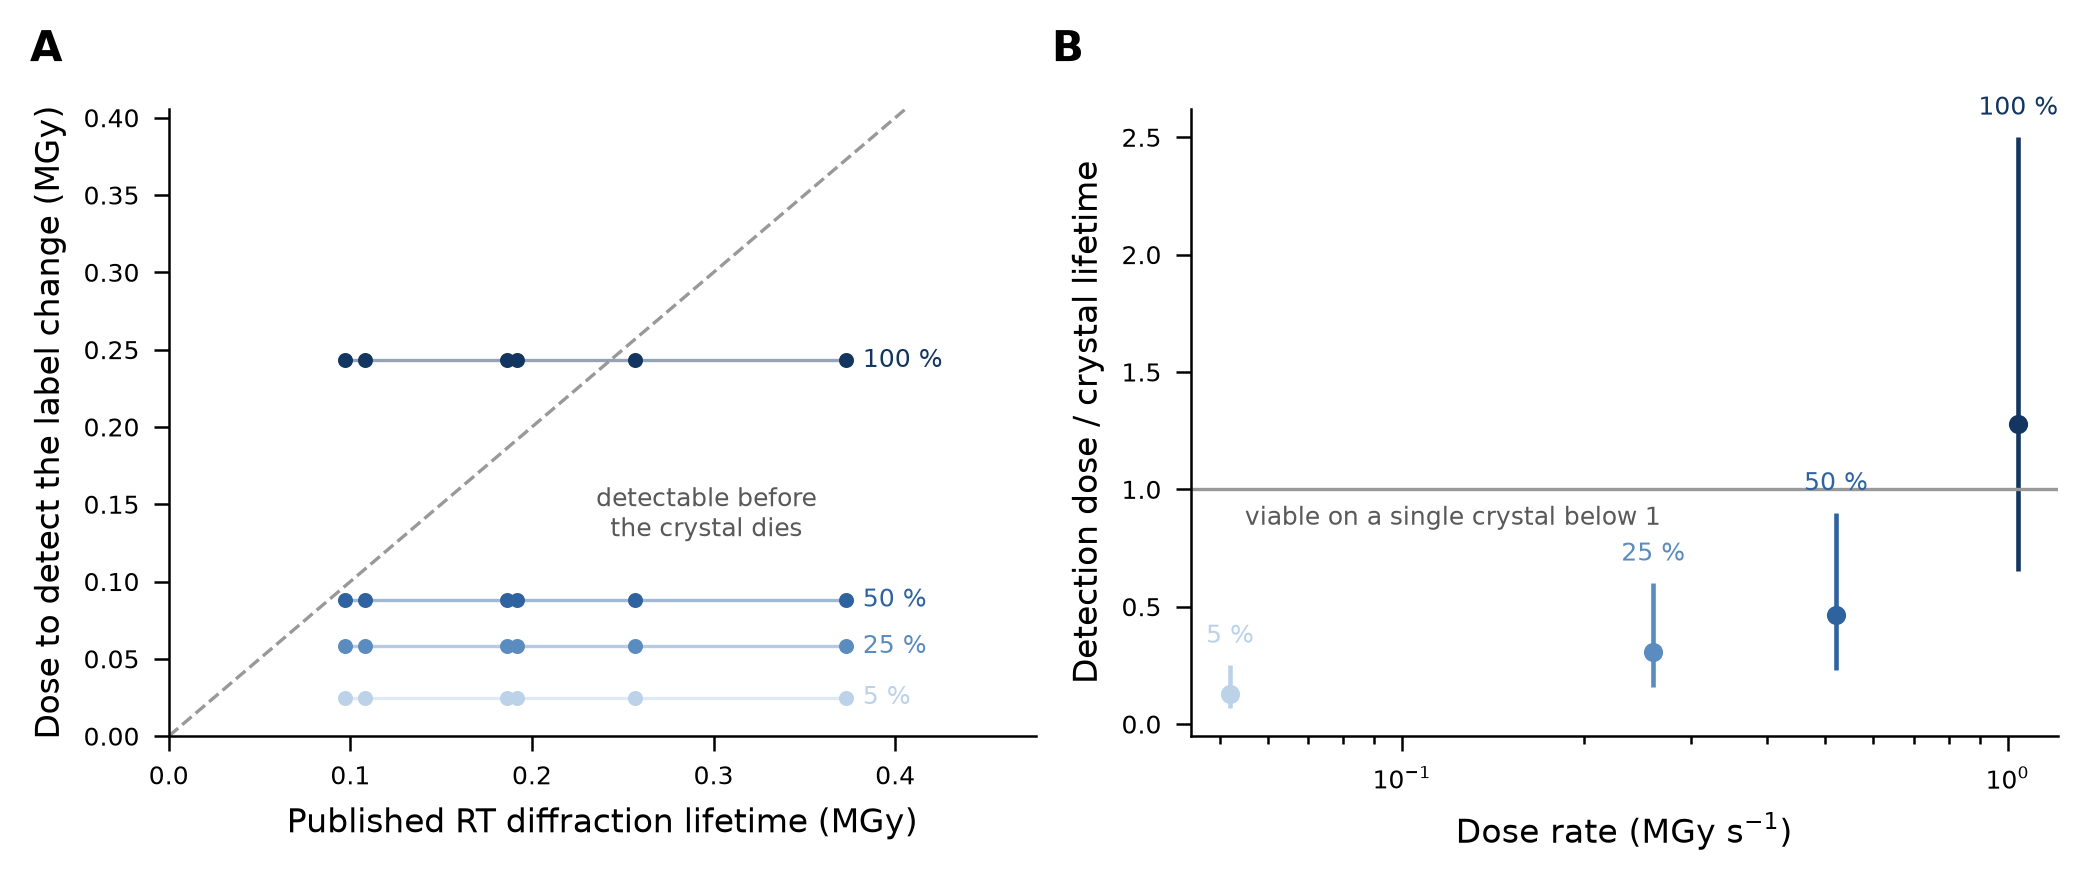
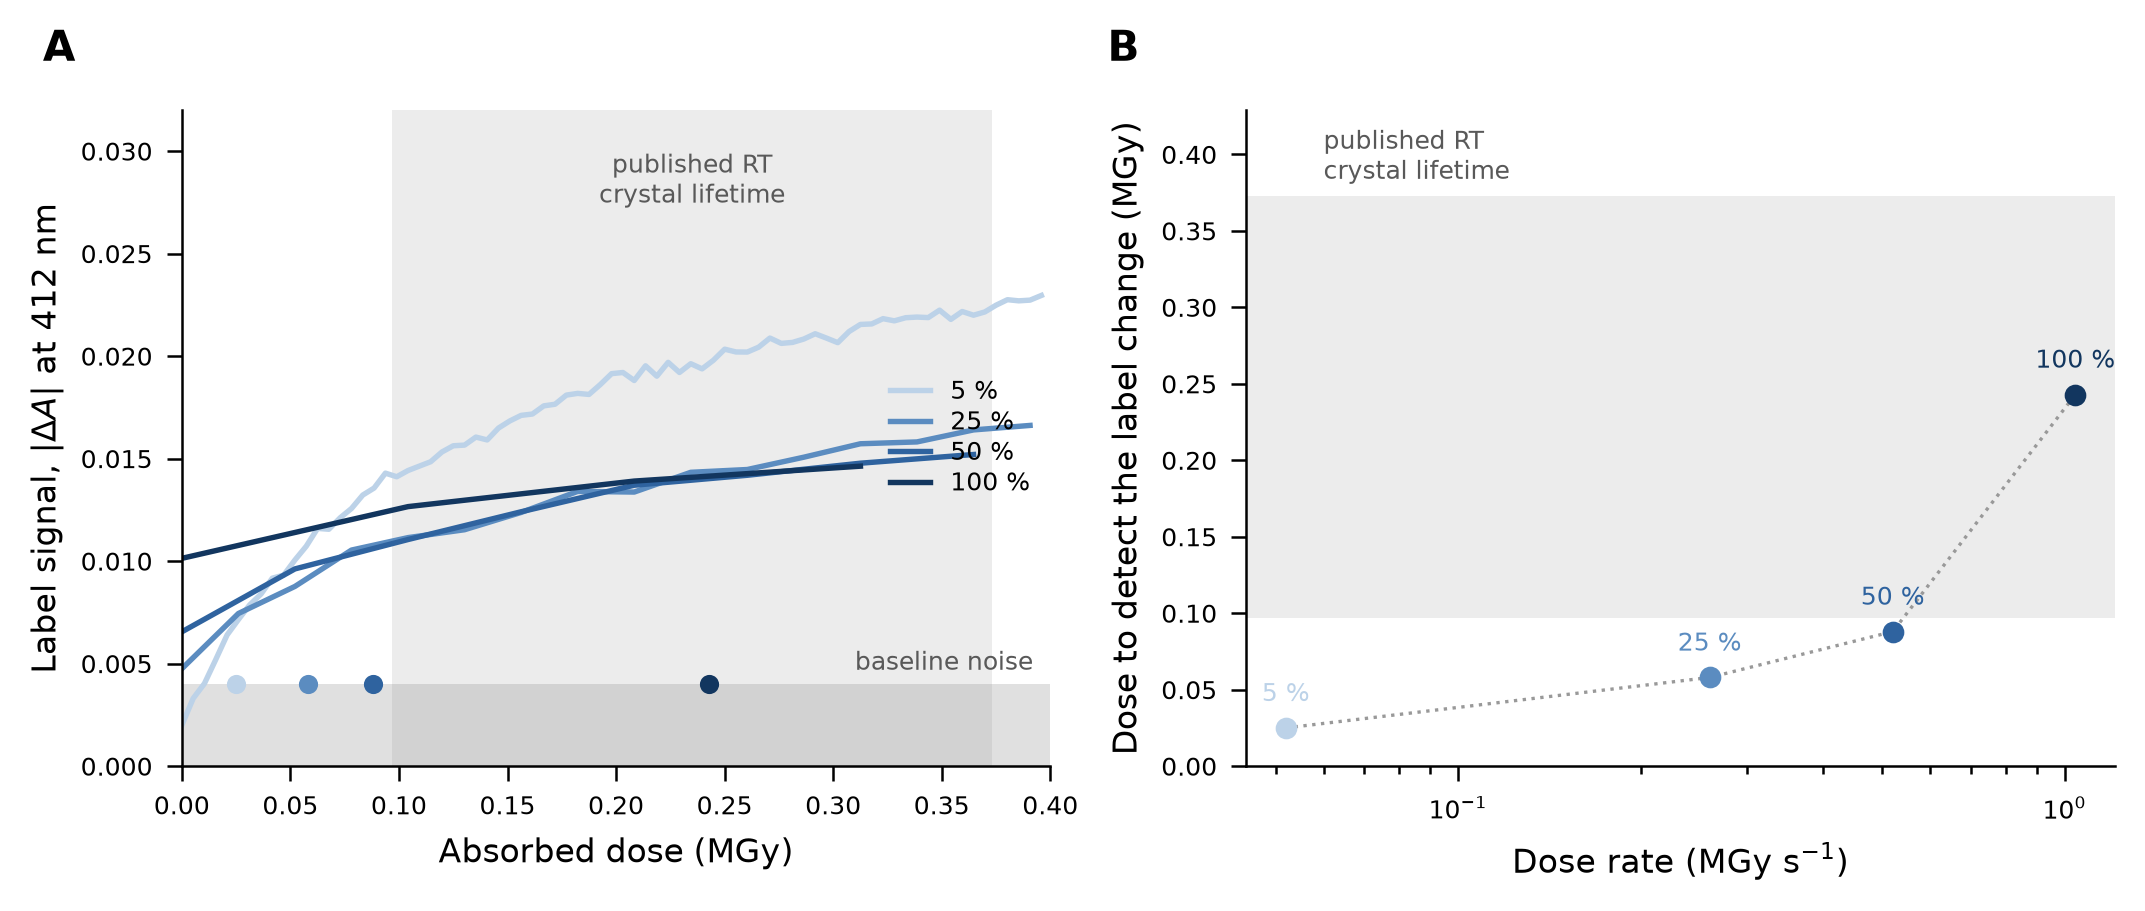
Redesign the verdict figure as dose vs signal with a marked threshold
figure_v2_verdict now plots |label signal| against dose directly, with
the measured noise floor and the published RT diffraction lifetime
range both shaded, and each condition's detection dose marked where
its curve crosses the floor.  Panel b keeps the lifetime band on the
detection-dose-vs-rate axis so the ambiguity at 100% transmission is
visible without a ratio.

Also added a WHY NOT A HALF-LIFE section to the summary: half-life and
the fitted decay constant d1 are the same quantity (t_half = ln(2)*d1),
so both are window-dependent for the same reason -- a 4.4x spread in
d1 for the DTNB_25 difference trace between a 0.6 and 3.0 MGy fit
window, because the decay is not a single exponential.

diff --git a/src/crystalspec/viability.py b/src/crystalspec/viability.py
@@ -184,70 +184,84 @@ def figure_v1_signal_is_real(results, pairs, registry, out_path, t_max_s=20.0):
     return fig
 
 
-def figure_v2_verdict(budget_rows, out_path):
-    """V2: detection dose against published diffraction lifetime.
+def figure_v2_verdict(results, pairs, budget_rows, out_path, dose_max_MGy=0.4):
+    """V2: dose against the label signal, with the detection threshold marked.
 
-    ``budget_rows`` is ``table_10_dose_budget.csv`` as a list of dicts.  Each
-    condition contributes one detection dose and is compared against every
-    published room-temperature lifetime, giving a range rather than a point --
-    the lifetime depends on the protein and on how the dose is delivered, so a
-    single value would be false precision.
+    This plots the quantity a reader actually wants to see -- how big is the
+    change, at what dose, relative to the noise -- rather than a derived
+    ratio.  ``budget_rows`` supplies the pre-computed detection dose and
+    published lifetimes so the two panels cannot drift from table 10.
 
-    A point below the diagonal means the label change clears the measured
-    baseline floor before the crystal loses its diffraction.
+    Panel a: |label signal| (the DTNB-apo difference at 412 nm) against dose,
+    one curve per transmission, with the measured noise floor shaded and each
+    curve's detection dose marked where it crosses that floor.  The vertical
+    band is the published room-temperature diffraction-lifetime range
+    (Owen et al. 2012); a detection mark to the LEFT of the band means the
+    label change is measurable before a comparable crystal stops diffracting.
+
+    Panel b: the same detection dose against dose rate, so the trend -- slower
+    delivery detects at lower dose -- is visible directly rather than folded
+    into a ratio.  The same lifetime band is repeated on the y-axis.
     """
     import matplotlib.pyplot as plt
 
     apply_style()
-    fig, (axa, axb) = plt.subplots(1, 2, figsize=(7.0, 3.0))
+    fig, (axa, axb) = plt.subplots(1, 2, figsize=(7.2, 3.1))
 
     by_cond = {}
     for r in budget_rows:
         by_cond.setdefault(r["condition"], []).append(r)
-
     lo_life = min(float(r["diffraction_lifetime_MGy"]) for r in budget_rows)
     hi_life = max(float(r["diffraction_lifetime_MGy"]) for r in budget_rows)
 
-    for cond, rows in by_cond.items():
-        t_pct = int(cond.split("_")[1])
-        det = float(rows[0]["dose_to_clear_noise_MGy"])
-        lives = sorted(float(r["diffraction_lifetime_MGy"]) for r in rows)
-        axa.plot([lives[0], lives[-1]], [det, det], lw=0.8, alpha=0.45,
-                 color=TRANSMISSION[t_pct], solid_capstyle="butt")
-        axa.plot(lives, [det] * len(lives), "o", ms=2.6,
-                 color=TRANSMISSION[t_pct])
-        axa.annotate(f"{t_pct} %", (lives[-1], det), xytext=(4, 0),
-                     textcoords="offset points", ha="left", va="center",
-                     fontsize=6, color=TRANSMISSION[t_pct])
-    lim = [0.0, max(hi_life, max(float(r["dose_to_clear_noise_MGy"])
-                                 for r in budget_rows)) * 1.28]
-    axa.plot(lim, lim, color=META_GREY, lw=0.8, ls="--")
-    axa.annotate("detectable before\nthe crystal dies", (lim[1] * 0.62, lim[1] * 0.30),
-                 fontsize=6, color="0.35", ha="center", va="center")
-    axa.set_xlim(*lim)
-    axa.set_ylim(0, lim[1] * 0.85)
-    axa.set_xlabel("Published RT diffraction lifetime (MGy)")
-    axa.set_ylabel("Dose to detect the label change (MGy)")
+    axa.axvspan(lo_life, hi_life, color=META_GREY, alpha=0.18, lw=0)
+    axa.annotate("published RT\ncrystal lifetime", (0.5 * (lo_life + hi_life), 0.030),
+                 ha="center", va="top", fontsize=6, color="0.35")
+    axa.axhspan(0, NOISE_FLOOR_DA, color=META_GREY, alpha=0.30, lw=0)
+    axa.annotate("baseline noise", (dose_max_MGy * 0.98, NOISE_FLOOR_DA),
+                 xytext=(0, 2), textcoords="offset points", ha="right",
+                 va="bottom", fontsize=6, color="0.35")
 
-    # Panel b: the same thing as the ratio, which is what a proposal quotes.
+    for dkey, akey in pairs:
+        t_pct = int(dkey.split("_")[1])
+        _, _, lab = _difference(results, dkey, akey, *TNB_WINDOW_NM)
+        d, _, _ = _difference(results, dkey, akey, *TNB_WINDOW_NM)
+        m = d <= dose_max_MGy
+        y = np.abs(lab[m])
+        axa.plot(d[m], y, lw=1.3, color=TRANSMISSION[t_pct], label=f"{t_pct} %")
+        det = float(by_cond[dkey][0]["dose_to_clear_noise_MGy"])
+        axa.plot([det], [NOISE_FLOOR_DA], "o", ms=3.6, color=TRANSMISSION[t_pct],
+                 zorder=5)
+    axa.set_xlim(0, dose_max_MGy)
+    axa.set_ylim(0, 0.032)
+    axa.set_xlabel("Absorbed dose (MGy)")
+    axa.set_ylabel("Label signal, $|\\Delta A|$ at 412 nm")
+    axa.legend(loc="center right", frameon=False, handlelength=1.6,
+               labelspacing=0.22, borderpad=0.3, fontsize=6)
+
+    # Panel b: detection dose against dose rate -- the design curve.  Slower
+    # delivery detects the label change at lower dose, which is the
+    # counter-intuitive result worth showing on its own axis.
+    axb.axhspan(lo_life, hi_life, color=META_GREY, alpha=0.18, lw=0)
+    axb.annotate("published RT\ncrystal lifetime", (0.06, hi_life), xytext=(0, 2),
+                 textcoords="offset points", ha="left", va="bottom",
+                 fontsize=6, color="0.35")
     for cond, rows in by_cond.items():
         t_pct = int(cond.split("_")[1])
-        ratios = [float(r["detection_dose_over_lifetime"]) for r in rows]
         rate = float(rows[0]["dose_rate_MGy_per_s"])
-        axb.plot([rate, rate], [min(ratios), max(ratios)], lw=1.1,
-                 color=TRANSMISSION[t_pct], solid_capstyle="butt")
-        axb.plot([rate], [np.median(ratios)], "o", ms=3.6,
-                 color=TRANSMISSION[t_pct])
-        axb.annotate(f"{t_pct} %", (rate, max(ratios)), xytext=(0, 4),
+        det = float(rows[0]["dose_to_clear_noise_MGy"])
+        axb.plot([rate], [det], "o", ms=4.2, color=TRANSMISSION[t_pct])
+        axb.annotate(f"{t_pct} %", (rate, det), xytext=(0, 5),
                      textcoords="offset points", ha="center", va="bottom",
                      fontsize=6, color=TRANSMISSION[t_pct])
-    axb.axhline(1.0, color=META_GREY, lw=0.8)
-    axb.annotate("viable on a single crystal below 1", (0.055, 0.93), xytext=(0, 0),
-                 textcoords="offset points", fontsize=6, color="0.35",
-                 ha="left", va="top")
+    rates = sorted(float(by_cond[c][0]["dose_rate_MGy_per_s"]) for c in by_cond)
+    dets = [float(by_cond[c][0]["dose_to_clear_noise_MGy"]) for c in
+            sorted(by_cond, key=lambda k: float(by_cond[k][0]["dose_rate_MGy_per_s"]))]
+    axb.plot(rates, dets, lw=0.8, color=META_GREY, ls=":", zorder=0)
     axb.set_xscale("log")
+    axb.set_ylim(0, hi_life * 1.15)
     axb.set_xlabel("Dose rate (MGy s$^{-1}$)")
-    axb.set_ylabel("Detection dose / crystal lifetime")
+    axb.set_ylabel("Dose to detect the label change (MGy)")
 
     for ax, letter in ((axa, "a"), (axb, "b")):
         panel_label(ax, letter)

diff --git a/src/crystalspec/run.py b/src/crystalspec/run.py
@@ -274,7 +274,7 @@ def main(argv=None) -> int:
     budget_rows = budget.to_dict("records")
     figure_v1_signal_is_real(results, PAIRS, registry,
                              out / "figure_V1_signal_is_real.png")
-    figure_v2_verdict(budget_rows, out / "figure_V2_verdict.png")
+    figure_v2_verdict(results, PAIRS, budget_rows, out / "figure_V2_verdict.png")
     figure_v3_what_else_changes(results, PAIRS,
                                 out / "figure_V3_what_else_changes.png")
     table_viability(results, PAIRS, budget_rows, out / "table_V1_viability.csv")
